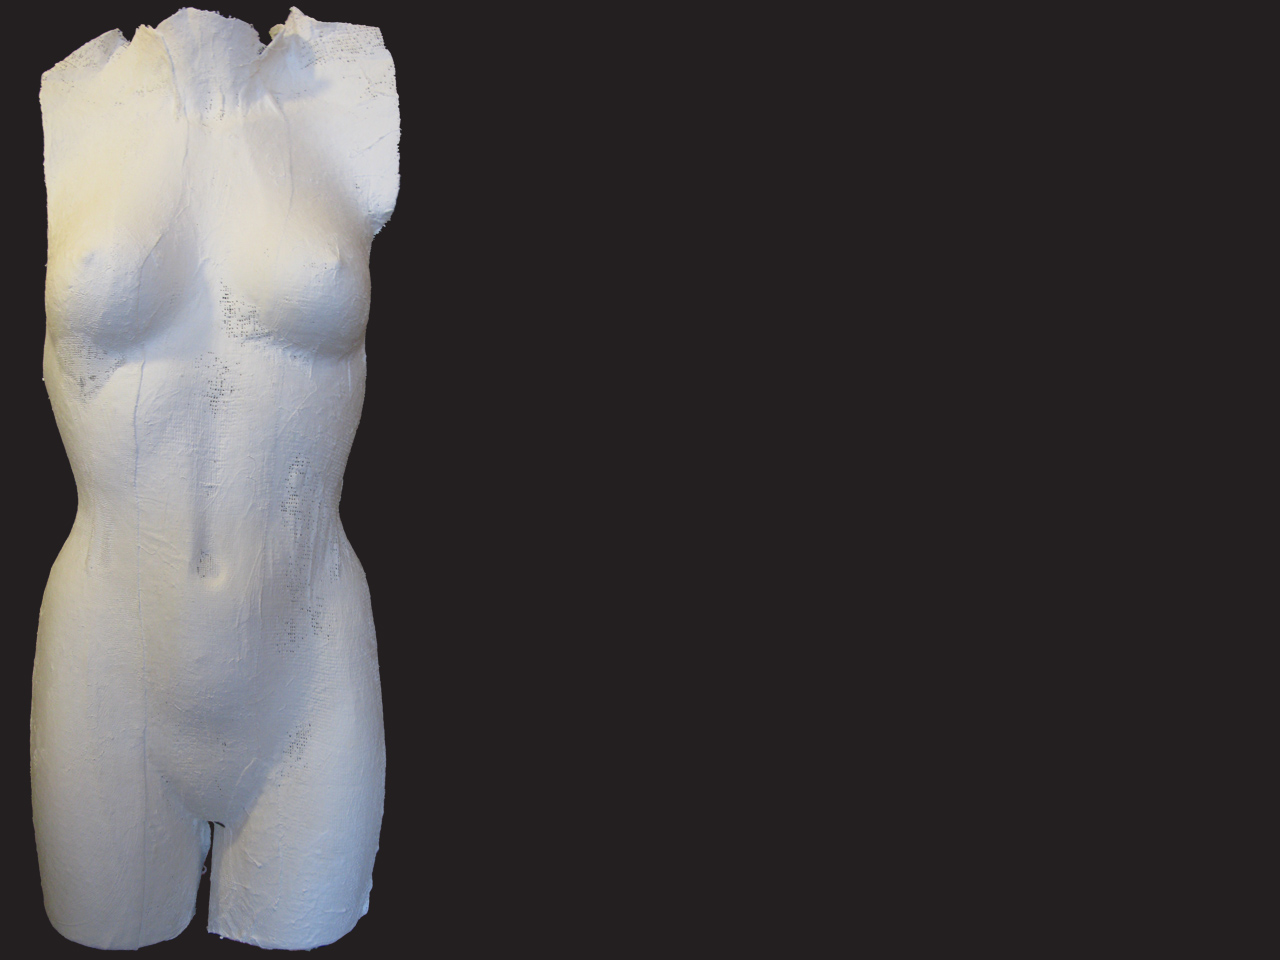
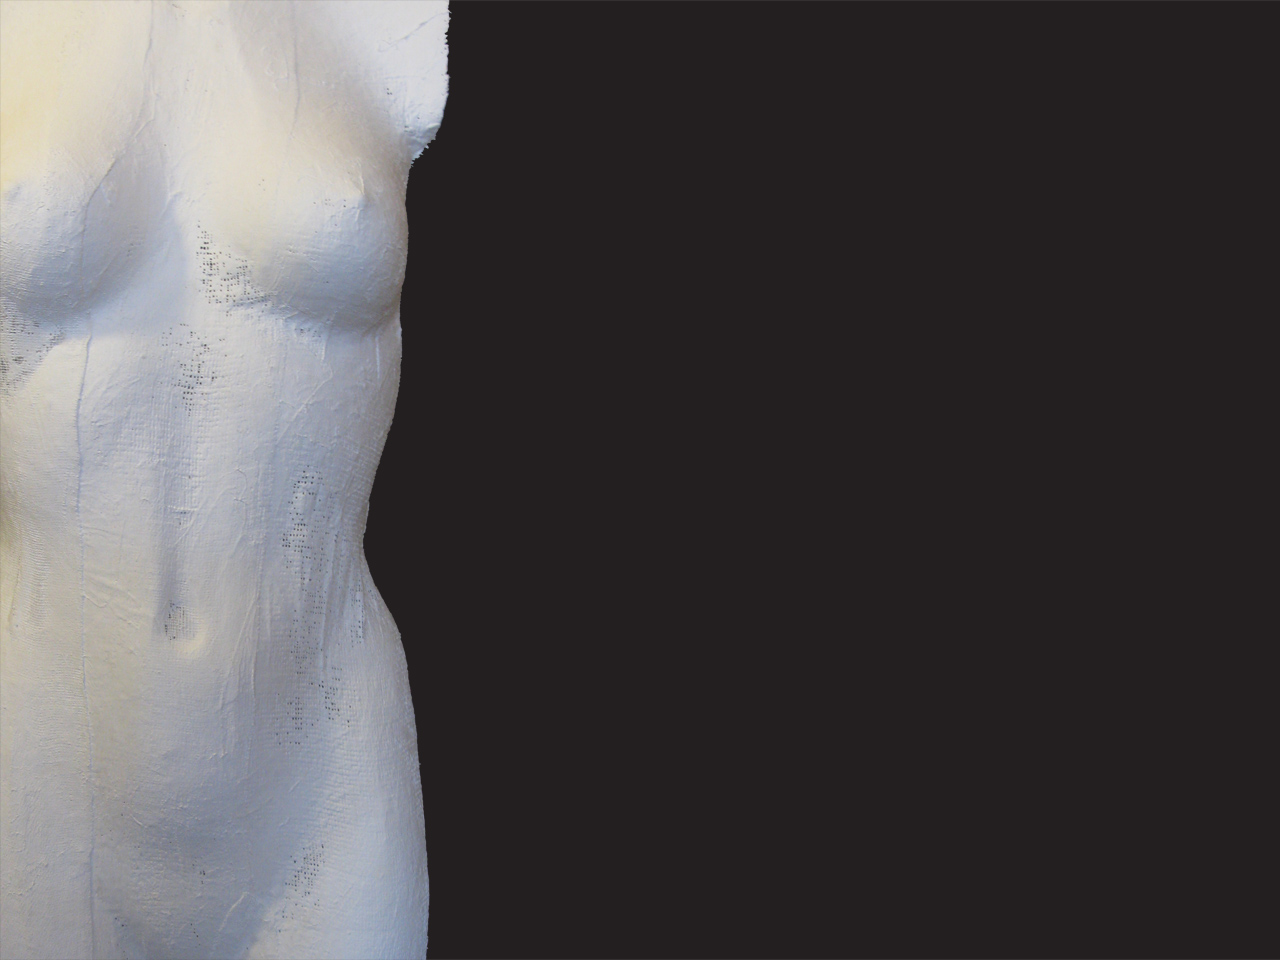
typo correct and current show image recrop

Changed region(s): [[0.0, 0.0, 0.375, 1.0]]

diff --git a/src/summersalon.html b/src/summersalon.html
@@ -13,4 +13,4 @@ homepage-order: 130
 
 <p>A PDF file containing full submission information can be downloaded <a href="/static/Summer%20Salon%20Submissions%202018.pdf" download="SummerSalonSubmissions2018.pdf">here</a>.</p>
 
-<p>The closing date for submissions is <strong>midnight at the end of Sunday 1 July 2018s</strong>.</p>
+<p>The closing date for submissions is <strong>midnight at the end of Sunday 1 July 2018</strong>.</p>
